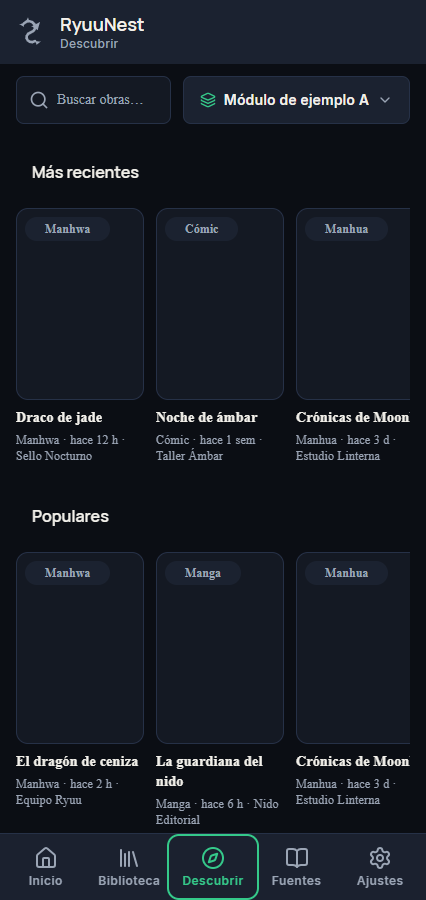
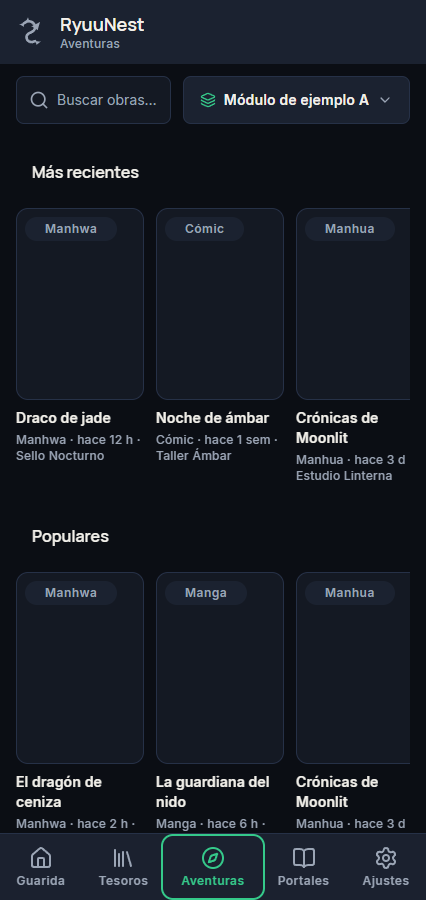
feat: renombra las secciones a Guarida, Tesoros, Aventuras y Portales
Solo textos visibles (claves i18n y rutas sin cambios), por decisión del humano.
Capturas de F11 regrabadas y nota de nomenclatura en el SPEC.

diff --git a/packages/i18n/tests/i18n.test.ts b/packages/i18n/tests/i18n.test.ts
@@ -24,8 +24,8 @@ describe("catálogo de traducciones (RF-40)", () => {
   it("lee las cadenas por clave, en español por defecto", () => {
     expect(defaultLocale).toBe("es");
     expect(getLocale()).toBe("es");
-    expect(t("nav.home")).toBe("Inicio");
-    expect(t("state.empty.library.title")).toBe("Tu biblioteca está vacía");
+    expect(t("nav.home")).toBe("Guarida");
+    expect(t("state.empty.library.title")).toBe("Tus tesoros están vacíos");
   });
 
   it("interpola parámetros entre llaves", () => {

diff --git a/apps/mobile/tests/components/shell.test.ts b/apps/mobile/tests/components/shell.test.ts
@@ -35,10 +35,10 @@ describe("barra inferior de 5 destinos (T1)", () => {
     expect(BOTTOM_NAV_DESTINATIONS).toEqual(["home", "library", "discover", "sources", "settings"]);
     // Las etiquetas visibles viven en el catálogo, no en el componente.
     expect(BOTTOM_NAV_DESTINATIONS.map((id) => t(`nav.${id}`))).toEqual([
-      "Inicio",
-      "Biblioteca",
-      "Descubrir",
-      "Fuentes",
+      "Guarida",
+      "Tesoros",
+      "Aventuras",
+      "Portales",
       "Ajustes",
     ]);
   });

diff --git a/apps/mobile/tests/navigation/routes.test.ts b/apps/mobile/tests/navigation/routes.test.ts
@@ -17,10 +17,10 @@ describe("destinos del shell (F11)", () => {
       "/settings",
     ]);
     expect(BOTTOM_NAV_DESTINATIONS.map(destinationLabel)).toEqual([
-      "Inicio",
-      "Biblioteca",
-      "Descubrir",
-      "Fuentes",
+      "Guarida",
+      "Tesoros",
+      "Aventuras",
+      "Portales",
       "Ajustes",
     ]);
   });

diff --git a/apps/mobile/tests/components/galleryComponents2.test.ts b/apps/mobile/tests/components/galleryComponents2.test.ts
@@ -90,7 +90,7 @@ describe("galería con componentes base 2 (F07)", () => {
       "tarjeta hero (continuar)",
       "tarjeta de recientes",
       "tarjeta de carpeta",
-      "pantalla Inicio",
+      "pantalla Guarida",
     ]) {
       expect(out, `falta ${name}`).toContain(name);
     }

diff --git a/tasks/todo.md b/tasks/todo.md
@@ -740,7 +740,7 @@ Dep: F20, F21, F22, F28, F32 · S · pantallas móviles, escritorio y TV disponi
 ## Deudas detectadas en la prueba nativa (2026-11-05)
 
 - [x] **Parches de Expo SDK 57 actualizados** (hecho 2026-11-05, autorizado por el humano; misma rama/PR): `expo` 57.0.32, `@expo/metro-runtime` 57.0.18, `expo-constants` 57.0.23, `expo-router` 57.0.30 y `expo-sharing` 57.0.25. `npx expo install --check` y `expo-doctor` en **21/21**; gate completo en verde (lint, typecheck, 1534 tests, build) y e2e web `shell`/`library` en verde. `pnpm-workspace.yaml` recibió los `minimumReleaseAgeExclude` de los paquetes nuevos (política de suministro de pnpm 12).
-- [ ] **Configurar `expo-updates` (OTA) en tarea aparte** (decisión del humano, 2026-11-05): añadir `updates.url`, política de `runtimeVersion`, proyecto/canal de EAS, build de prueba y verificación de una actualización real. Mientras no exista, Expo Go avisa «expo-updates system is disabled…»; no afecta al desarrollo.
+- [ ] **Configurar `expo-updates` (OTA) en tarea aparte** (decisión del humano, 2026-11-05): añadir `updates.url`, política de `runtimeVersion`, proyecto/canal de EAS, build de prueba y verificación de una actualización real. Mientras no exista, Expo Go avisa «expo-updates system is disabled…»; no afecta al desarrollo. **Bloqueada (2026-11-06):** necesita la cuenta de Expo/EAS del humano (login interactivo, proyecto y canal); se retoma en una sesión con el humano.
 - [ ] **URGENTE — Fuentes no lista los módulos del repo instalado.** Con el repo de `RyuuNest-Models` instalado, la pantalla Fuentes se ve vacía: debería listar al menos los 3 módulos publicados (`zonatmo`, `yupmanga`, `m440`) para poder usarlos en Descubrir. Sin fuentes la app no sirve para leer. Reproducir con el repo real, revisar índice/`ModuleRegistry`/filtro de compatibilidad y escribir la prueba en rojo antes del arreglo.
-- [ ] **Renombrar las secciones con el mundo dragón** (decisión del humano, pendiente de implementar): Inicio → **Guarida**, Biblioteca → **Tesoros**, Descubrir → **Aventuras**, Fuentes → **Portales**. Aplicar en navegación, títulos, textos y claves i18n; mantener las rutas internas y actualizar SPEC/DESIGN/capturas cuando se haga. No implementar en esta PR.
+- [x] **Renombrar las secciones con el mundo dragón** (hecho 2026-11-06, rama `feature/rename-secciones-dragon`): Inicio → **Guarida**, Biblioteca → **Tesoros**, Descubrir → **Aventuras**, Fuentes → **Portales**. Decisión del humano: solo textos visibles (las claves i18n y las rutas no cambian) y todos los literales de UI que nombran la sección; nota de nomenclatura en SPEC §1. Capturas de F11 regrabadas; e2e del shell en verde. Lista de textos cambiados en el PR.
 

diff --git a/MEMORY.md b/MEMORY.md
@@ -139,6 +139,7 @@ Memoria del proyecto para cualquier agente. Solo hitos, decisiones vigentes y pe
 - P-133 F34.2 (agente, a validar en el PR): token aditivo `contentMaxWidth` = 720 en `ui-tokens` (mismo valor que `readerMaxWidth`, aparte); `typography.mono` pasa a ser el 13.º token (13/20, peso 400) y la galería lo muestra; en web la columna reutiliza `calc(var(--space-2xl) * 15)`; `SettingsCard`, `NoticeToast` y `SafeScreen` son componentes nuevos **sin entrada propia en la galería todavía** (CLAUDE.md §7 la pide; pendiente); la puerta de i18n de la extensión duplica la regla de `isWrittenAsCopy`.
 - P-134 F34.3 (decisiones del humano, 2026-11-06): la pista de desplazamiento de los chips es un **degradado con `expo-linear-gradient ~57.0.2`** (instalación confirmada; en web no hace falta porque los chips envuelven); el anillo de foco cubre **web + `Pressable` compartidos**, y el D-pad de TV queda en F22; rama nueva desde `master` tras fusionar F34.2.
 - P-136 F34.3 (decisión del humano, 2026-11-06): los defectos de 273 px se tratan **dentro de F34.3**; el agente eligió `LIBRARY_CARD_MIN_WIDTH` = 96 (2 columnas bajo 344 px) y `NAV_LABEL_MAX_FONT_SCALE` = 1,3, ambos **provisionales** y a validar en el PR.
+- P-138 Nombres de sección (decisión del humano, 2026-11-06): Guarida, Tesoros, Aventuras, Portales en toda la UI (valores de `es.json`); claves y rutas sin cambios. `expo-updates` (OTA) queda **bloqueado por la cuenta de Expo/EAS**: se retoma en una sesión con el humano (`eas login`, proyecto y canal).
 - P-135 F34.3 (agente, a validar en el PR): `FocusPressable` sustituye a `Pressable` en todo `apps/mobile/src` (una guarda lo exige; `BottomNav` conserva su anillo vía `navItemStyle`); los tragatoques vacíos y el lienzo del lector van con `focusable={false}`; el «200 % de texto» web se reproduce con el viewport a la mitad (no cubre el tamaño de fuente de Android); `Switch` añade `aria-checked`/`aria-disabled` y `settings.cjs` de móvil se adaptó al interruptor propio.
 - Convenio de pruebas: cada pantalla raíz declara `testID="screen-<id>"`; los e2e esperan ese marcador (`tests/e2e/markers.cjs`) y un guard falla si una ruta de destino no es marco ni lo declara.
 

diff --git a/docs/SPEC.md b/docs/SPEC.md
@@ -13,6 +13,8 @@
 
 ## 1. Resumen
 
+> **Nombres de sección (decisión del humano, 2026-11-06):** en la interfaz las secciones se llaman **Guarida** (antes Inicio), **Tesoros** (Biblioteca), **Aventuras** (Descubrir) y **Portales** (Fuentes). Este documento y el código conservan los nombres antiguos y las rutas internas (`/`, `/library`, `/discover`, `/sources`) por claridad; cuando un requisito diga «Biblioteca» o «Fuentes», se refiere a Tesoros o Portales.
+
 ### 1.1 Problema
 
 Las apps de lectura que usaba el autor dejan de funcionar cuando los sitios cambian o la app deja de mantenerse, y los sitios están llenos de anuncios.
